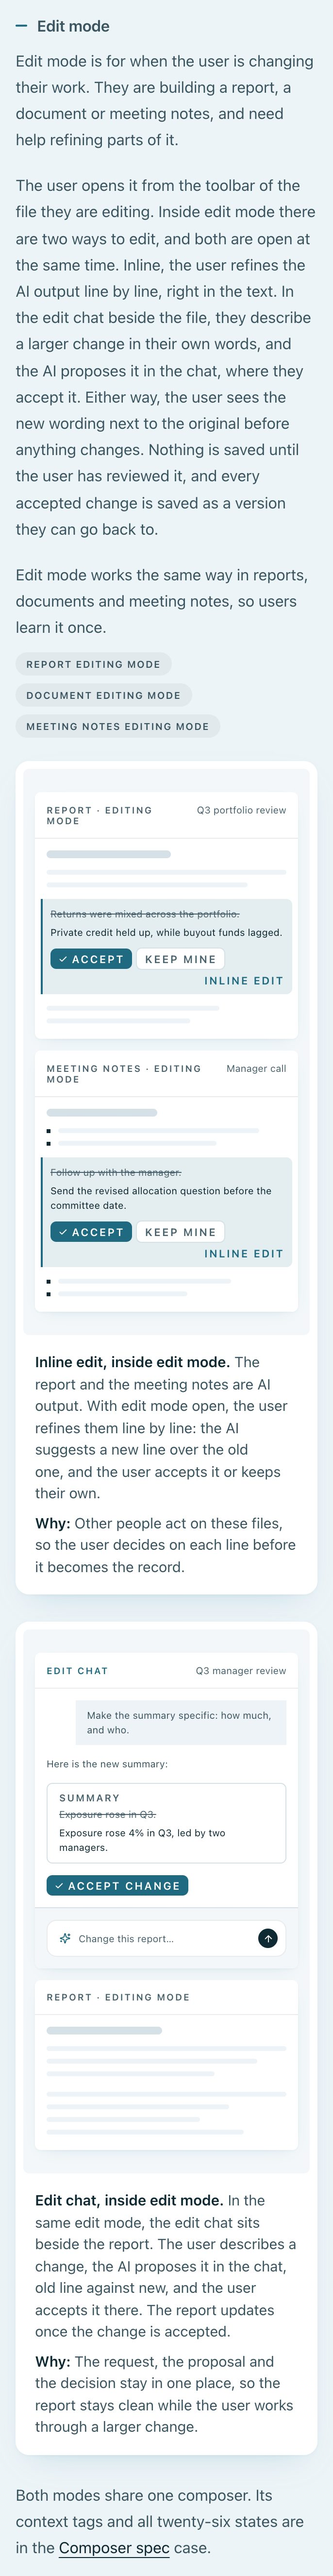
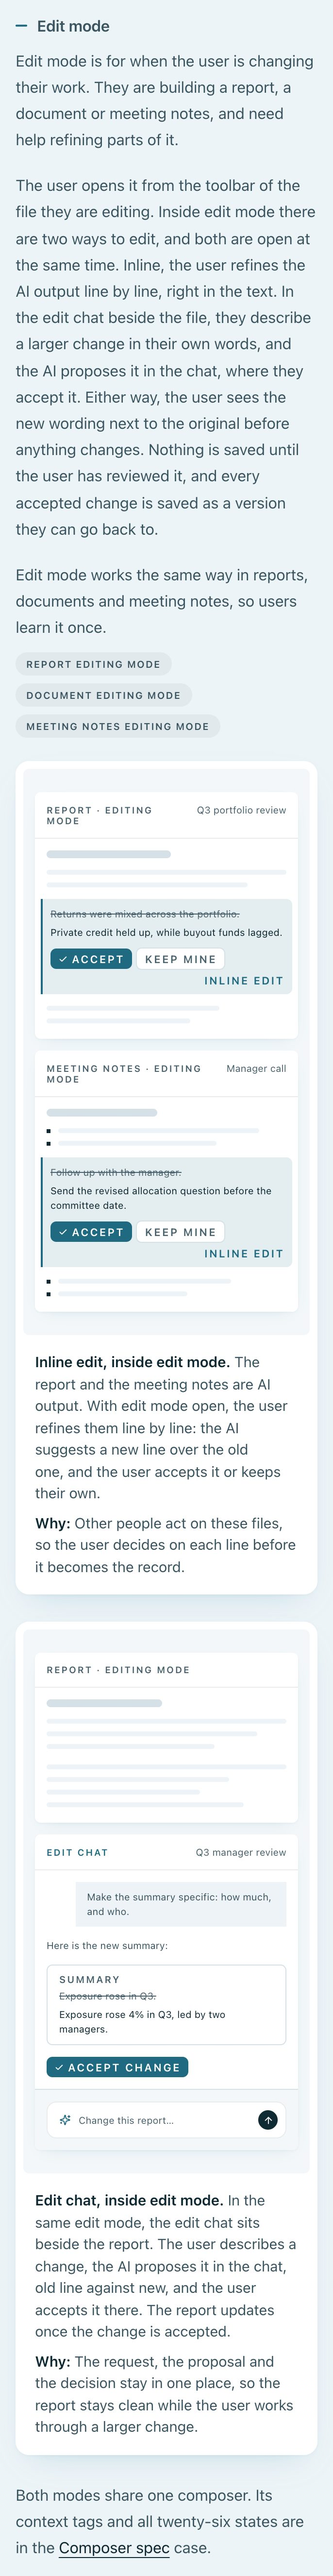
Round 5, AI surfaces: report panel above the edit chat on phones; questions answered

diff --git a/ai-surfaces.html b/ai-surfaces.html
@@ -86,6 +86,8 @@
   @keyframes dotPulse { 0%, 100% { opacity: .25; } 50% { opacity: 1; } }
   /* the placement figure: previous work above the proposed solution on a phone, so both tags and every badge stay whole */
   @media (max-width: 600px) { #fig-placement > div { grid-template-columns: minmax(0, 1fr) !important; } #fig-placement > div > div:nth-child(2) { height: 1px; } }
+  /* the edit chat figure: on a phone the panels stack with the report on top, so the reader sees the report's editing mode first, then the chat (Nayara 2026-09-27) */
+  @media (max-width: 700px) { #fig-edit-chat .card { flex-basis: 100% !important; } #fig-edit-chat [data-panel="report"] { order: -1; } }
   @media (max-width: 860px) {
     [data-rail] {
       flex: 1 1 100% !important;
@@ -348,7 +350,7 @@
         </div>
       </div>
     </div></div><!-- proposal: caption banner. One block under a figure: what it shows, then why. Replaces the caps title, caption line and Why line. --><div class="figure__caption" data-caption><p data-new-copy="ai-surfaces-r5-inline-caption"><strong>Inline edit, inside edit mode.</strong> The report and the meeting notes are AI output. With edit mode open, the user refines them line by line: the AI suggests a new line over the old one, and the user accepts it or keeps their own.</p><p data-new-copy="ai-surfaces-r5-inline-why"><strong>Why:</strong> Other people act on these files, so the user decides on each line before it becomes the record.</p></div></div>
-          <div class="figure figure--col"><div><div style="padding:var(--space-xl) var(--space-fluid-s) var(--space-xl);background:var(--surface-page)">
+          <div class="figure figure--col" id="fig-edit-chat"><div><div style="padding:var(--space-xl) var(--space-fluid-s) var(--space-xl);background:var(--surface-page)">
       <div style="display:flex;flex-wrap:wrap;gap:var(--space-sm);align-items:stretch">
         <div class="card" style="flex:3 1 260px;min-width:0;box-shadow:var(--shadow-sm);display:flex;flex-direction:column;overflow:hidden">
           <div style="display:flex;justify-content:space-between;align-items:baseline;gap:var(--space-xs);padding:var(--space-sm) var(--space-sm);border-bottom:1px solid var(--border-emphatic)"><span style="font-size:var(--font-size-diagram);font-weight:600;letter-spacing:var(--tracking-eyebrow);text-transform:uppercase;color:var(--accent)">Edit chat</span><span style="font-size:var(--font-size-2xs);color:var(--text-muted);white-space:nowrap">Q3 manager review</span></div>
@@ -360,7 +362,7 @@
           </div>
           <div style="border-top:1px solid var(--border);background:var(--surface-page);padding:var(--space-sm) var(--space-sm)"><div style="border:1px solid var(--border-emphatic);border-radius:var(--radius-md);background:var(--surface-card);padding:var(--space-xs) var(--space-xs) var(--space-xs) var(--space-sm);display:flex;align-items:center;gap:var(--space-xs)"><i data-lucide="sparkles" style="width:12px;height:12px;display:block;flex:none;color:var(--accent)"></i><span style="flex:1;min-width:0;font-size:var(--font-size-2xs);color:var(--text-muted);white-space:nowrap;overflow:hidden;text-overflow:ellipsis">Change this report…</span><span style="flex:none;width:20px;height:20px;background:var(--surface-inverse);border-radius:var(--radius-md);display:flex;align-items:center;justify-content:center"><i data-lucide="arrow-up" style="width:11px;height:11px;display:block;flex:none;color:var(--surface-card)"></i></span></div></div>
         </div>
-        <div class="card" style="flex:2 1 220px;min-width:0;box-shadow:var(--shadow-sm);display:flex;flex-direction:column;overflow:hidden">
+        <div class="card" data-panel="report" style="flex:2 1 220px;min-width:0;box-shadow:var(--shadow-sm);display:flex;flex-direction:column;overflow:hidden">
           <div style="display:flex;justify-content:space-between;align-items:baseline;gap:var(--space-xs);padding:var(--space-sm) var(--space-sm);border-bottom:1px solid var(--border-emphatic)"><span style="font-size:var(--font-size-diagram);font-weight:600;letter-spacing:var(--tracking-eyebrow);text-transform:uppercase;color:var(--text-muted)">Report · Editing mode</span></div>
           <div style="padding:var(--space-sm) var(--space-sm) var(--space-md);display:flex;flex-direction:column;gap:var(--space-xs);flex:1"><div class="sk-d" style="width:48%;height:8px;margin-bottom:var(--space-2xs)"></div><div class="sk" style="height:5px"></div><div class="sk" style="width:88%;height:5px"></div><div class="sk" style="width:70%;height:5px;margin-bottom:var(--space-xs)"></div><div class="sk" style="height:5px"></div><div class="sk" style="width:76%;height:5px"></div><div class="sk" style="width:64%;height:5px"></div><div class="sk" style="width:82%;height:5px"></div></div>
         </div>

diff --git a/_review/round-5-ai.html b/_review/round-5-ai.html
@@ -41,9 +41,8 @@ del{color:var(--muted)}
 <div class="q"><p><code>ai-surfaces-r5-chat-mock</code>, <code>ai-surfaces-r5-chat-accept</code> (chat mockup)</p><p>"Here is the new summary:" · Summary: <del>Exposure rose in Q3.</del> → Exposure rose 4% in Q3, led by two managers. (both lines already on the page) · button "Accept change"</p></div>
 <div class="q"><p><code>ai-surfaces-r5-inline-mock</code> (mockup text in the new figure)</p><p>Report · Editing mode, "Q3 portfolio review": <del>Returns were mixed across the portfolio.</del> → Private credit held up, while buyout funds lagged.</p><p>Meeting notes · Editing mode, "Manager call": <del>Follow up with the manager.</del> → Send the revised allocation question before the committee date. (reused from the figure removed in round 3)</p><p>Tag on each suggestion: "Inline edit" (the chat figure keeps "From edit chat", so the two sources read apart).</p></div>
 
-<h2>Questions</h2>
-<div class="q"><p>1. The inline suggestions are tagged "Inline edit"; the chat figure no longer shows an inline suggestion. Keep the tag? Recommendation: keep it.</p></div>
-<div class="q"><p>2. Only "Accept change" in the chat, as you named it. Add a secondary "Keep mine" there too? Recommendation: no, the user can simply ask again.</p></div>
+<h2>Questions (answered 2026-09-27)</h2>
+<p>Both answered with the recommendations: the inline suggestions keep the "Inline edit" tag; the chat has "Accept change" only. On phones the report panel now sits above the edit chat; desktop keeps chat left, report right.</p>
 
 <h2>Check</h2>
 <p><code>python3 harness/check.py ai-surfaces.html</code>: PASS at 1400px and 375px. One warning on this page, FLW-02 strike-through, which the rule excepts for product mockups showing a deletion.</p>

diff --git a/DECISIONS.md b/DECISIONS.md
@@ -5,6 +5,7 @@ Nayara's verdicts, newest first. Every verdict lands here the same day it is giv
 Format: date · decision · what it replaces or rules out · enforced by.
 
 ## 2026-09-27
+- AI surfaces, edit chat figure on phones: the "Report · Editing mode" panel sits on top of the edit chat, so the reader first sees they are in the report's editing mode, then the chat; desktop keeps chat left, report right. The inline suggestions keep the "Inline edit" tag; the chat has "Accept change" only, no "Keep mine". · chat above the report on phones · by eye (rule in the page `<style>`)
 - AI surfaces, edit chat figure: in the chat there is no inline edit. The report is a plain report and the focus is the chat; the AI proposes the change in the chat (old line to new) and the user accepts it there with an "Accept change" button. Inline edit stays its own figure (report and meeting notes, tag "Inline edit"), both inside edit mode at the same time. · the inline suggestion inside the chat figure, "One change proposed in Summary. It is waiting in the report", "Go to change" · by eye
 
 ## 2026-09-26 (evening)
